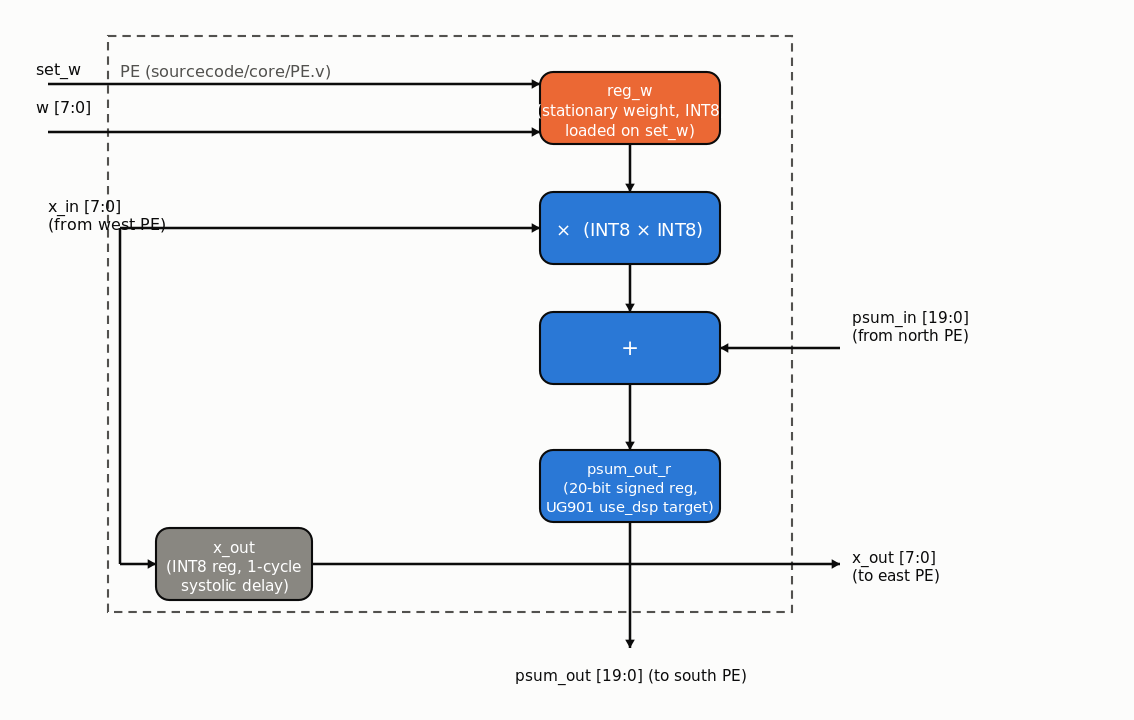
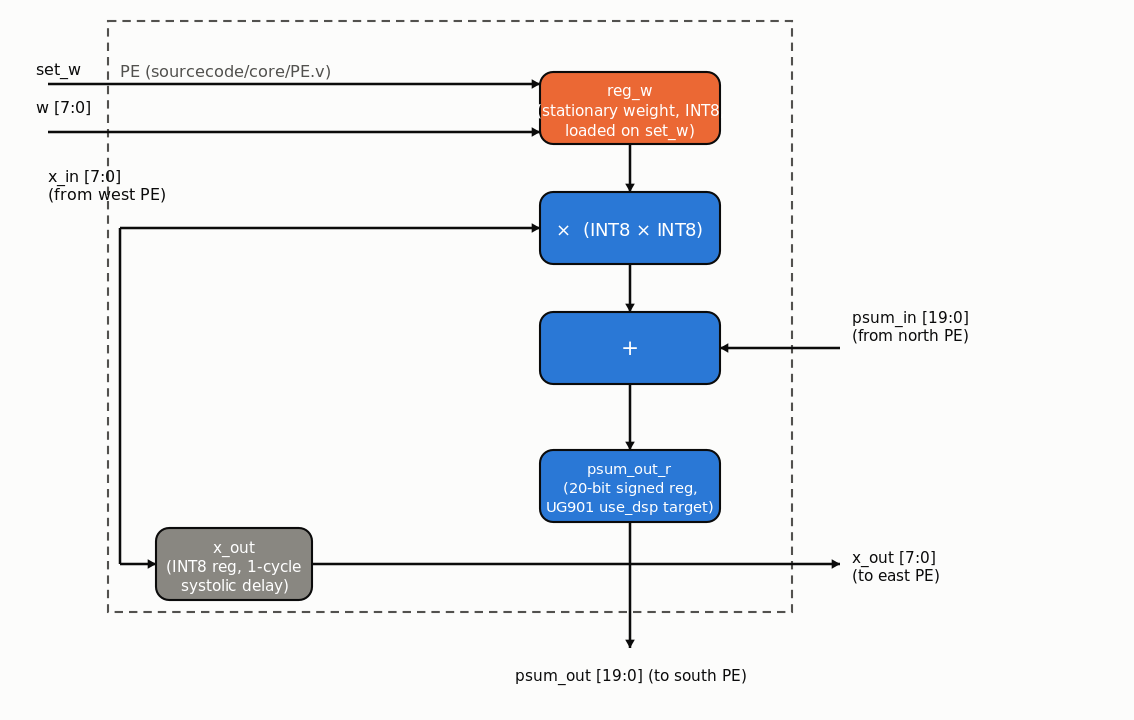
Fig. 1: further increase label clearance from arrow line and border
Previous pass under-corrected -- the x_in [7:0] label's anchor is its
vertical block center, so a small shift left the bottom line's own
line-height still reaching the signal arrow.

- x_in [7:0] / (from west PE): shifted up an additional 5 units
  (30px at scale=6), now clearing the horizontal arrow by a full
  line-height with margin.
- set_w: instead of moving the label down (which would have pushed
  it into its own signal wire just below), shifted the dashed PE
  boundary's top edge up by 2.5 units (15px) instead, opening extra
  clearance without disturbing the set_w wire.

Verified via high-scale cropped re-renders of both regions before
committing. Figs. 4/9 re-rendered byte-identical (untouched). Does
not touch taoFPGA_Project_Book.docx/.pdf.

Changed region(s): [[0.0309, 0.2444, 0.1543, 0.3361]]

diff --git a/report/generate_svg_figures.py b/report/generate_svg_figures.py
@@ -264,7 +264,7 @@ def label(ctx, cv, x, y, text, size=2.6, color=INK, align="left"):
 # Fig. 1 -- PE internal microarchitecture (Section II.A)
 # ============================================================================
 def draw_fig1(cv, ctx):
-    dashed_rect(ctx, cv, 8, 0, 114, 96)
+    dashed_rect(ctx, cv, 8, 0, 114, 98.5)
     label(ctx, cv, 10, 90.5, "PE (sourcecode/core/PE.v)", size=2.7, color=INK_SECONDARY)
 
     draw_box(ctx, cv, 80, 78, 30, 12, "reg_w\n(stationary weight, INT8,\nloaded on set_w)", COLOR_CTRL, fontsize=2.55)
@@ -280,7 +280,7 @@ def draw_fig1(cv, ctx):
     orthogonal_path(ctx, cv, [(10, 8), (10, 64)], arrow=False)
     orthogonal_path(ctx, cv, [(10, 8), (16, 8)])
     orthogonal_path(ctx, cv, [(10, 64), (80, 64)])
-    label(ctx, cv, -2, 66.5, "x_in [7:0]\n(from west PE)", size=2.65, align="left")
+    label(ctx, cv, -2, 71.5, "x_in [7:0]\n(from west PE)", size=2.65, align="left")
 
     orthogonal_path(ctx, cv, [(-2, 88), (80, 88)])
     label(ctx, cv, -4, 91.0, "set_w", size=2.65, align="left")
